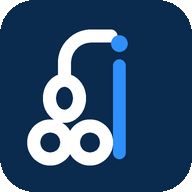
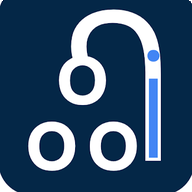
Use the real artwork, and take the palette from it
Replaces the geometric reconstructions of the mark with the author's own
files — eTamil.webp, eTamil_full.jpg and Esan-Maruff-600px.jpg. The logo is
converted and resampled only; the artwork itself is untouched.

Sampling the logo showed the brand colours were not the ones the stylesheet
had been guessing: navy is #002140 and cyan is #00AFF0. Every token now comes
from the artwork, which also removes the seam where the logo's own navy plate
met a slightly different hero. The hero gradient starts on that exact navy.
Links use a darkened cyan, #00688F, because the brand cyan is only 2.5:1 on
white; on navy the brand cyan is used as-is at 6.5:1.

Measuring the icon corrected a second guess. The supplied plate is very nearly
square — about 8px of rounding on 340 — where the reconstruction assumed a
heavily rounded square, an impression that came from the thumbnail being
rounded in a viewer. The favicon mask is 2.4%, since anything larger clips the
navy.

The About page gains the portrait, a LinkedIn link, and the story behind the
author's earlier work: the RAQBI camel-racing robot jockey, built in Qatar in
2005 as a replacement for trafficked child jockeys. It is told with the same
care the status page uses — the robots did not end the practice by themselves,
and the page says so, citing Rest of World for the account.

diff --git a/assets/css/main.css b/assets/css/main.css
@@ -1,14 +1,16 @@
-/* eTamil.in — palette taken from the mark: deep navy plate, azure accent.
-   Light is the default so long-form research pages stay readable; the navy
-   carries the chrome. Dark mode mirrors it. Code is always on navy. */
+/* eTamil.in — palette sampled from the logo artwork itself: navy #002140 and
+   cyan #00AFF0 are the two colours in eTamil_full.jpg, so the logo sits on the
+   chrome without a seam. --link is a darkened cyan, because the brand cyan is
+   only 2.5:1 on white; on navy the brand cyan is used as-is at 6.5:1.
+   Light is the default so long-form research pages stay readable. */
 
 :root {
-  --navy-deep: #04162B;
-  --navy:      #0A2A4E;
-  --navy-soft: #123C6B;
-  --azure:     #2E90FA;
-  --azure-lo:  #1268CC;
-  --azure-hi:  #6FB4FF;
+  --navy-deep: #001628;
+  --navy:      #002140;
+  --navy-soft: #0B3A63;
+  --azure:     #00AFF0;
+  --azure-lo:  #00688F;
+  --azure-hi:  #4FC8FF;
 
   --bg:        #FFFFFF;
   --bg-soft:   #F4F8FC;
@@ -16,9 +18,9 @@
   --text:      #10233C;
   --muted:     #4C6382;
   --line:      #D7E3F0;
-  --link:      #0F62C4;
-  --code-bg:   #0B2340;
-  --code-line: #1B4272;
+  --link:      #00688F;
+  --code-bg:   #002140;
+  --code-line: #10416B;
   --code-text: #DCE9F8;
 
   --font: -apple-system, BlinkMacSystemFont, "Segoe UI", Roboto, "Helvetica Neue",
@@ -28,20 +30,20 @@
 
   --wrap: 1140px;
   --radius: 12px;
-  --shadow: 0 1px 2px rgba(10, 42, 78, .06), 0 8px 24px rgba(10, 42, 78, .07);
+  --shadow: 0 1px 2px rgba(0, 33, 64, .06), 0 8px 24px rgba(0, 33, 64, .08);
 }
 
 @media (prefers-color-scheme: dark) {
   :root {
-    --bg:        #06182D;
-    --bg-soft:   #0A2340;
-    --bg-sunken: #0E2B4C;
+    --bg:        #04182B;
+    --bg-soft:   #002140;
+    --bg-sunken: #06294A;
     --text:      #E6EFF9;
     --muted:     #9DB6D2;
-    --line:      #17395E;
-    --link:      #7CBBFF;
-    --code-bg:   #04152A;
-    --code-line: #16365C;
+    --line:      #10416B;
+    --link:      #4FC8FF;
+    --code-bg:   #00182F;
+    --code-line: #0E3557;
     --shadow: 0 1px 2px rgba(0, 0, 0, .3), 0 8px 24px rgba(0, 0, 0, .35);
   }
 }
@@ -70,7 +72,7 @@ body {
 
 .skip {
   position: absolute; left: -9999px; top: 0; z-index: 100;
-  background: var(--azure); color: #04203C; padding: .7rem 1.1rem; border-radius: 0 0 8px 0;
+  background: var(--azure); color: #002140; padding: .7rem 1.1rem; border-radius: 0 0 8px 0;
   font-weight: 700;
 }
 .skip:focus { left: 0; }
@@ -104,9 +106,9 @@ body {
   color: #D3E3F5; text-decoration: none; font-size: .93rem; font-weight: 600;
 }
 .nav a:hover { background: rgba(255, 255, 255, .09); color: #fff; }
-.nav a[aria-current="page"] { color: #fff; background: rgba(46, 144, 250, .22); }
-.nav-cta a { background: var(--azure); color: #04203C; margin-left: .35rem; }
-.nav-cta a:hover { background: var(--azure-hi); color: #04203C; }
+.nav a[aria-current="page"] { color: #fff; background: rgba(0, 175, 240, .24); }
+.nav-cta a { background: var(--azure); color: #002140; margin-left: .35rem; }
+.nav-cta a:hover { background: var(--azure-hi); color: #002140; }
 
 .nav-toggle { display: none; background: none; border: 0; cursor: pointer; padding: .5rem; }
 .bars, .bars::before, .bars::after {
@@ -126,7 +128,7 @@ body {
 
 /* ------------------------------------------------------------------ hero */
 
-.hero { background: linear-gradient(170deg, var(--navy-deep), var(--navy) 62%, #10375F); color: #fff; }
+.hero { background: linear-gradient(180deg, var(--navy) 0%, #00263F 45%, var(--navy-deep) 100%); color: #fff; }
 .hero-inner {
   padding: clamp(3rem, 8vw, 5.5rem) 20px clamp(3rem, 7vw, 4.5rem);
   display: grid; gap: 3rem;
@@ -136,8 +138,9 @@ body {
 @media (max-width: 900px) { .hero-inner { grid-template-columns: 1fr; gap: 2rem; } }
 
 .hero-logo {
-  display: block; width: clamp(240px, 34vw, 360px); height: auto;
-  margin: 0 0 1.6rem -8px;
+  display: block; width: clamp(260px, 38vw, 400px); height: auto;
+  margin: 0 0 1.7rem;
+  border-radius: 6px;
 }
 .hero h1 { font-size: clamp(2.1rem, 5.2vw, 3.3rem); line-height: 1.1; letter-spacing: -.03em; margin: 0 0 1rem; font-weight: 800; color: #fff; }
 .hero h1 .accent { color: var(--azure-hi); }
@@ -149,8 +152,8 @@ body {
   display: inline-block; padding: .72rem 1.3rem; border-radius: 9px;
   font-weight: 700; font-size: .97rem; text-decoration: none; border: 1px solid transparent;
 }
-.btn-primary { background: var(--azure); color: #04203C; }
-.btn-primary:hover { background: var(--azure-hi); }
+.btn-primary { background: var(--azure); color: #002140; }
+.btn-primary:hover { background: var(--azure-hi); color: #002140; }
 .btn-ghost { border-color: rgba(255, 255, 255, .32); color: #fff; }
 .btn-ghost:hover { background: rgba(255, 255, 255, .1); }
 
@@ -292,7 +295,7 @@ td code, th code { white-space: nowrap; }
 
 /* ------------------------------------------------------------- code demo */
 
-.demo { border-radius: 14px; overflow: hidden; border: 1px solid rgba(255, 255, 255, .16); box-shadow: 0 18px 50px rgba(0, 0, 0, .35); background: #04152A; }
+.demo { border-radius: 14px; overflow: hidden; border: 1px solid rgba(255, 255, 255, .16); box-shadow: 0 18px 50px rgba(0, 0, 0, .35); background: #00182F; }
 .demo-bar { display: flex; align-items: center; gap: .5rem; padding: .55rem .9rem; background: rgba(255, 255, 255, .06); border-bottom: 1px solid rgba(255, 255, 255, .1); font-size: .76rem; color: #9DBDE2; font-family: var(--mono); }
 .demo-bar .dot { width: 10px; height: 10px; border-radius: 50%; background: #35507A; }
 .demo-bar .name { margin-left: .4rem; }
@@ -308,7 +311,7 @@ td code, th code { white-space: nowrap; }
 
 .profile { display: grid; grid-template-columns: 168px 1fr; gap: 1.8rem; align-items: start; margin-bottom: 2rem; }
 @media (max-width: 620px) { .profile { grid-template-columns: 1fr; } }
-.profile img { width: 168px; height: 210px; object-fit: cover; border-radius: 12px; border: 1px solid var(--line); background: var(--bg-sunken); }
+.profile img { display: block; width: 168px; height: 224px; object-fit: cover; border-radius: 12px; border: 1px solid var(--line); background: var(--bg-sunken); }
 .profile .who { margin: 0 0 .2rem; font-size: 1.4rem; }
 .profile .role { color: var(--muted); margin: 0 0 1rem; }
 

diff --git a/index.html b/index.html
@@ -11,9 +11,12 @@ permalink: /
 <section class="hero">
   <div class="wrap hero-inner">
     <div>
-      <img class="hero-logo" src="{{ '/assets/img/etamil-logo-on-dark.svg' | relative_url }}"
-           width="360" height="99" alt="eTamil.in — a FinTech DSL"
-           fetchpriority="high" decoding="async">
+      <picture>
+        <source srcset="{{ '/assets/img/etamil-logo.webp' | relative_url }}" type="image/webp">
+        <img class="hero-logo" src="{{ '/assets/img/etamil-logo.jpg' | relative_url }}"
+             width="1200" height="340" alt="eTamil.in — a FinTech DSL"
+             fetchpriority="high" decoding="async">
+      </picture>
       <p class="eyebrow"><span lang="ta">இ தமிழ்</span> · version {{ site.brand.version }} · AGPL-3.0</p>
       <h1>Build industrial software <span class="accent">in Tamil.</span></h1>
       <p class="lede">

diff --git a/_includes/head.html b/_includes/head.html
@@ -1,12 +1,12 @@
 <meta charset="utf-8">
 <meta name="viewport" content="width=device-width, initial-scale=1">
-<meta name="theme-color" content="#0A2A4E">
+<meta name="theme-color" content="#002140">
 <meta name="color-scheme" content="light dark">
 
 {% seo %}
 
 <link rel="icon" href="{{ '/assets/img/favicon.ico' | relative_url }}" sizes="any">
-<link rel="icon" type="image/svg+xml" href="{{ '/assets/img/etamil-icon.svg' | relative_url }}">
+<link rel="icon" type="image/png" sizes="192x192" href="{{ '/assets/img/etamil-icon-192.png' | relative_url }}">
 <link rel="apple-touch-icon" href="{{ '/assets/img/apple-touch-icon.png' | relative_url }}">
 <link rel="manifest" href="{{ '/site.webmanifest' | relative_url }}">
 <link rel="stylesheet" href="{{ '/assets/css/main.css' | relative_url }}">

diff --git a/_includes/jsonld.html b/_includes/jsonld.html
@@ -33,7 +33,10 @@
         }
       },
       "url": "{{ site.url }}/about/",
-      "sameAs": ["https://github.com/Maruff"]
+      "sameAs": ["https://github.com/Maruff", "https://www.linkedin.com/in/bmaruff/"],
+      "knowsAbout": ["Domain-specific languages", "Compiler design", "Rust",
+                     "Indian taxation and accounting", "FinTech", "Robotics"],
+      "description": "Creator of eTamil and, at RAQBI in Qatar, lead of the team behind the first camel-racing robot jockey."
     },
     {
       "@type": "SoftwareSourceCode",

diff --git a/_includes/nav.html b/_includes/nav.html
@@ -1,6 +1,6 @@
 {%- assign p = page.url -%}
 <a class="brand" href="{{ '/' | relative_url }}" aria-label="eTamil.in — home">
-  <img class="brand-mark" src="{{ '/assets/img/etamil-icon.svg' | relative_url }}"
+  <img class="brand-mark" src="{{ '/assets/img/etamil-icon-72.png' | relative_url }}"
        width="36" height="36" alt="" aria-hidden="true">
   <span class="brand-text">
     <strong>eTamil<span class="tld">.in</span></strong>

diff --git a/_includes/footer.html b/_includes/footer.html
@@ -1,6 +1,6 @@
 <div class="wrap footer-grid">
   <div class="footer-brand">
-    <img src="{{ '/assets/img/etamil-icon.svg' | relative_url }}" width="44" height="44"
+    <img src="{{ '/assets/img/etamil-icon-72.png' | relative_url }}" width="44" height="44"
          alt="" aria-hidden="true">
     <p>
       <strong>eTamil.in</strong><br>

diff --git a/about.md b/about.md
@@ -4,27 +4,22 @@ title: About eTamil and its author
 section: Project
 permalink: /about/
 summary: >-
-  eTamil is designed and built by Esan Maruff, PhD scholar at B.S. Abdur Rahman
-  Crescent Institute of Science and Technology, Chennai.
+  eTamil is designed and built by Esan Maruff — 25 years in industry, PhD scholar
+  at Crescent Institute, and the engineer who led the world's first camel-racing
+  robot jockey.
 description: >-
-  About eTamil and its author Esan Maruff (Mohammed Maruff), PhD scholar in the
-  Department of Computer Applications at B.S. Abdur Rahman Crescent Institute of
-  Science and Technology, Chennai — why the language exists and how to get in touch.
+  About eTamil and its author Esan Maruff (Mohammed Maruff), PhD scholar at
+  B.S. Abdur Rahman Crescent Institute of Science and Technology, Chennai,
+  UGC NET qualified, and the engineer who led development of the world's first
+  camel-racing robot jockey at RAQBI in Qatar.
 ---
 
 <div class="profile" markdown="0">
-  {% if site.author.photo %}
-    <img src="{{ site.author.photo | relative_url }}" width="168" height="210"
-         alt="Portrait of Esan Maruff, author of eTamil">
-  {% else %}
-    <svg width="168" height="210" viewBox="0 0 168 210" role="img"
-         aria-label="Esan Maruff" style="border-radius:12px;background:#0A2A4E">
-      <title>Esan Maruff</title>
-      <rect width="168" height="210" rx="12" fill="#0A2A4E"/>
-      <text x="84" y="118" text-anchor="middle" fill="#6FB4FF"
-            font-family="Segoe UI, Arial, sans-serif" font-size="56" font-weight="800">EM</text>
-    </svg>
-  {% endif %}
+  <picture>
+    <source srcset="{{ '/assets/img/esan-maruff-336.webp' | relative_url }}" type="image/webp">
+    <img src="{{ '/assets/img/esan-maruff.jpg' | relative_url }}" width="168" height="224"
+         alt="Portrait of Esan Maruff, author of eTamil" decoding="async">
+  </picture>
   <div>
     <h2 class="who" style="border:0;padding:0;margin-top:0">Esan Maruff</h2>
     <p class="role">
@@ -35,11 +30,19 @@ description: >-
       Vandalur, Chennai — 600048, Tamil Nadu, India
     </p>
     <p>
-      <a href="https://github.com/Maruff" rel="noopener">github.com/Maruff</a> ·
+      <a href="https://www.linkedin.com/in/bmaruff/" rel="noopener me">LinkedIn</a> ·
+      <a href="https://github.com/Maruff" rel="noopener me">GitHub</a> ·
       <a href="mailto:{{ site.author.email }}">{{ site.author.email }}</a>
     </p>
   </div>
 </div>
+
+Twenty-five years in industry across India, Qatar and the UAE — FinTech and
+InfoTech delivery, ERP and banking integration, database migration, blockchain
+and business intelligence consulting — now turned to doctoral research on a
+programming language. UGC NET qualified at the 97th percentile, M.Sc. in Computer
+Science, and currently CTO and technology consultant at iGen Services &
+Solutions, Sharjah.
 
 ## Why eTamil exists
 
@@ -68,6 +71,69 @@ language, the DSL would not be sufficient for the thing it exists to do. The hos
 provides only what a language cannot express — decimal arithmetic, text
 measurement, file and socket access — and everything above that is readable and
 editable by the people who use it.
+
+## Before this: the robot that replaced child jockeys
+
+<div class="band" markdown="1">
+
+In May 2005, at the Al-Shahaniya racetrack outside Doha, Esan Maruff watched a
+camel race for the first time. He was there as head of IT and robotics at RAQBI —
+the Robotics Academy of Qatar for Bright Inventions, funded by the Qatar
+Development Bank — leading a project to build a camel-racing robot jockey.
+
+He had not applied for the job. *"The job was very much an accident,"* he told
+*Rest of World*. *"I never applied. I never gave my resume to anyone."*
+
+Camel racing in the Gulf had run on child jockeys since the 1970s, in a pursuit of
+ever-lighter riders. A trafficking network bought boys — some as young as three —
+from debt-burdened families in Pakistan, Bangladesh and Sudan and sold them to
+stables. Human rights organisations documented injuries, abuse and deaths in the
+jockey camps. By 2005 the UAE and Qatar had banned under-18 jockeys outright, but
+camel owners resisted, and the bans needed something to replace the children with.
+
+An earlier prototype by the Swiss firm K-Team had been rejected: human-sized,
+expensive, and with a human face, which trainers would not accept. RAQBI's answer
+was radical simplification. The team miniaturised the design and stripped every
+humanoid feature. The robot became a motorised whip on an aluminium frame; its
+motor came out of a 12V drill; its remote controls were repurposed car key fobs —
+press lock to strike one side, unlock for the other. A two-way radio speaker let
+trainers shout to their camels from the SUVs racing alongside the track.
+
+The design was deliberately cheap and easy to copy — the team even left the
+circuitry exposed. *"Any electronics technician can make this,"* Maruff said.
+Within months, camel owners had engineers building their own versions across the
+Gulf Cooperation Council. *"It was amazing: we never expected that kind of reach."*
+
+Robot jockeys are now standard in professional camel racing across the region.
+The engineering did not end child exploitation in the sport by itself — Anti-Slavery
+International still documented underage jockeys at a UAE heritage festival in 2010,
+and races outside the professional circuit were slower to change — but it removed
+the reason owners had given for resisting the bans, and it is a large part of why
+those bans became enforceable.
+
+*"I'm very proud talking about this,"* he said. *"I feel this is a lifetime
+achievement."*
+
+<p><a href="https://restofworld.org/2020/qatar-camel-racing-robots/" rel="noopener">
+Andrew Deck, “How a robotics engineer accidentally upended child labor practices in
+the Gulf”, <em>Rest of World</em>, March 2020</a></p>
+
+</div>
+
+The work has since been covered by the BBC, Apple Podcasts, Khalifa University and
+Wikipedia.
+
+There is a thread running from that racetrack to this language. The RAQBI robot
+worked because it was simplified to what the people using it would actually accept,
+and built so that anyone could rebuild it. eTamil's standard library is written in
+eTamil for the same reason: a tool that its own users cannot read or change is a
+tool that stops where its author stops.
+
+## Also published
+
+- *From Caves to Code: The Enduring Journey of Tamil Script* — eTamil India, 2025, 118 pages
+- *Theory of Computation and Compilers, Vol. 1: An Introduction to Theory of Computation* — 2024, 104 pages
+- "Developing an Indian DSL (Programming Language) for Accounts, Commerce, Finance, and Fintech Professionals" — ICTETL 2025, 16 pages. [See the research]({{ '/research/' | relative_url }})
 
 ## Honesty about scope
 

diff --git a/README.md b/README.md
@@ -65,17 +65,26 @@ To swap in a different original, replace the file and keep the name:
 
 | File | Used for |
 |---|---|
-| `etamil-icon.svg` | header, footer, favicon (vector) |
-| `etamil.webp` | the icon as a raster |
+| `etamil.webp` | the icon, exactly as supplied (340×340) |
+| `etamil-icon-72.png` | header and footer mark, corners alpha-clipped |
 | `etamil-icon-192.png`, `etamil-icon-512.png` | web app manifest |
 | `apple-touch-icon.png` | iOS home screen |
-| `favicon.ico` | browser tab fallback |
+| `favicon.ico` | browser tab (16/32/48) |
+| `etamil-logo.jpg` / `.webp` / `.png` | the full lockup, artwork untouched (1200×340) |
 | `og-image.png` | link previews on social and chat (1200×630) |
-| `etamil-logo.svg` | full lockup on a navy plate — safe on any background |
-| `etamil-logo-on-dark.svg` | full lockup, transparent — for navy surfaces (the hero) |
+| `esan-maruff.jpg` / `.webp` / `-336.webp` | author portrait |
 
-An author portrait is optional. Add the image and point `author.photo` at it in
-`_config.yml`; without it the About page falls back to a monogram.
+The originals live in `Pictures/Personal/` — `eTamil.webp`, `eTamil_full.jpg` and
+`Esan-Maruff-600px.jpg`. `scratchpad/real_assets.py` regenerates the whole set from
+them; it only converts format and resamples, and never redraws. The icon mask uses
+a 2.4% corner radius because the supplied plate is near-square — a larger radius
+clips the artwork.
+
+The palette is sampled from the logo, not chosen: navy `#002140` and cyan
+`#00AFF0` are its two colours. `--link` is a darkened cyan (`#00688F`) because the
+brand cyan is only 2.5:1 on white.
+
+The About page portrait comes from `author.photo` in `_config.yml`.
 
 ## SEO
 

diff --git a/research.md b/research.md
@@ -118,8 +118,14 @@ and TDS templates and the Hyperledger integration do not. The
 ```
 Maruff, M. and Valli, S. P. "Developing an Indian DSL (Programming Language)
 for Accounts, Commerce, Finance, and Fintech Professionals."
-B.S. Abdur Rahman Crescent Institute of Science and Technology, Chennai, 2025.
+ICTETL 2025, 16 pp. B.S. Abdur Rahman Crescent Institute of Science and
+Technology, Chennai.
 ```
+
+## Related books by the author
+
+- *From Caves to Code: The Enduring Journey of Tamil Script* — eTamil India, 2025, 118 pages
+- *Theory of Computation and Compilers, Vol. 1: An Introduction to Theory of Computation* — 2024, 104 pages
 
 ## Research notes
 
